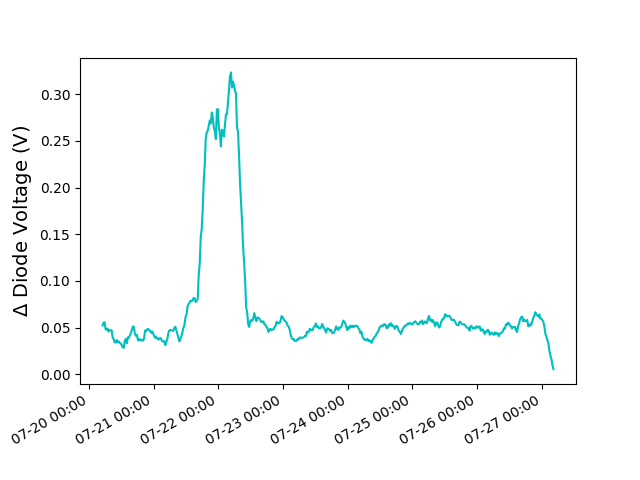
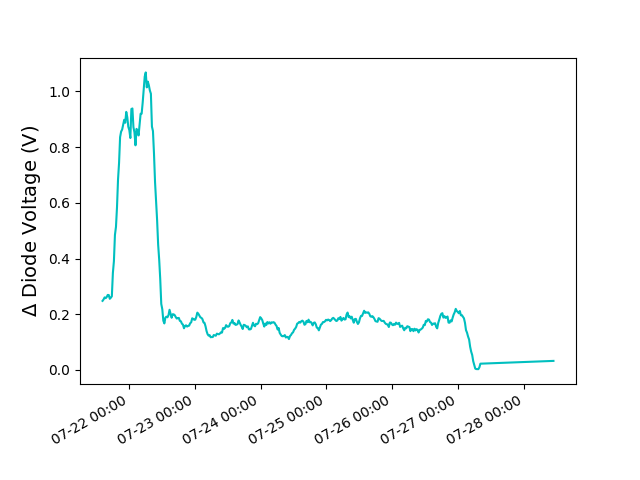
better smoothing, removed unnecessary info/headings from egg page

diff --git a/templates/eggs.html b/templates/eggs.html
@@ -18,13 +18,12 @@
 
     <div class="data_summary">
         <h1>Data Summary</h1>
-        <li>Last Sensor Voltage: {{last_v}} V</li>
         <li>Last time of data collection: {{last_time}} on {{last_date}}</li>
         <li>Last browser refresh: {{last_refresh}}</li>
       </div>
 
     <div class = "graph">
-        <h1>Data Collected <br> over the last 24 hours</h1>
+        <!-- <h1>Data Collected <br> over the last 24 hours</h1> -->
         <img src="{{ url_for('static', filename='graphs/biomass/egg_eye_1_diff.png')}}">
     </div>
 

diff --git a/firebase.py b/firebase.py
@@ -43,7 +43,7 @@ def moving_average(x, n):
     Simple moving average filter
     """
     filter = np.ones(n) / n
-    return np.convolve(x, filter, 'same')
+    return np.convolve(x, filter, 'valid')
 
 def to_datetime(dates, tz_aware=True):
     """
@@ -82,7 +82,7 @@ def check_egg_data():
                 break
 
         time.sleep(60)
-        
+  
 
 
 class bmass_sensor():
@@ -99,7 +99,7 @@ class bmass_sensor():
         self.off = np.array([int(data['data'][i][0]) for i in data['data']])
         self.g = np.array([int(data['data'][i][2]) for i in data['data']])
         self.battv = np.array([float(data['status'][i]['batt_v']) for i in data['status']])
-        self.v = (self.on - self.off)/1024
+        self.v = 3.3 * (self.on - self.off)/1023
         self.id = int(name)
 
     def plot_timeseries(self, mv):
@@ -107,14 +107,13 @@ class bmass_sensor():
         date_fmt = '%m-%d %H:%M'
         # Use DateFormatter to set the data to the correct format.
         date_formatter = mdates.DateFormatter(date_fmt, tz=(pytz.timezone("US/Eastern")))
-        lower = self.d_dt[-1-mv] - timedelta(days=7)
-        upper = self.d_dt[-1-mv]
+        lower = self.d_dt[-1] - timedelta(days=7)
 
-        window = (self.d_dt > lower) & (self.d_dt < upper)
-        v = moving_average(self.v, mv)[window]
+        window = (self.d_dt > lower)
+        v = moving_average(self.v[window], mv)
 
         plt.figure()
-        plt.plot(self.d_dt[window], v, color='c')
+        plt.plot(self.d_dt[window][mv - 1 :], v, color='c')
         plt.ylabel("$\Delta $ Diode Voltage (V)", fontsize=14)
         plt.gcf().autofmt_xdate()
         plt.gca().xaxis.set_major_formatter(date_formatter)
@@ -129,24 +128,27 @@ class egg_sensor():
         self.d_dt = to_datetime(data['data'])
         self.on = np.array([int(data['data'][i]['on']) for i in data['data']])
         self.off = np.array([int(data['data'][i]['off']) for i in data['data']])
-        self.v = (self.on - self.off)/1024
+        self.v = 3.3 * (self.on - self.off)/1023
         self.id = 'egg'
 
-    def plot_timeseries(self, mv):
-        date_fmt = '%m-%d %H:%M'
+    def plot_timeseries(self, mv = 10, x = 1):
+        # date_fmt = '%m-%d %H:%M'
+        date_fmt = '%I:%M%p'
         date_formatter = mdates.DateFormatter(date_fmt, tz=(pytz.timezone("US/Eastern")))
-        lower = self.d_dt[-1-mv] - timedelta(days=1)
-        upper = self.d_dt[-1-mv]
+        lower = self.d_dt[-1] - timedelta(days=7)
+        # upper = self.d_dt[-1-mv]
 
         #potentially learn & use a different smoothing algorithm??
-        window = (self.d_dt > lower) & (self.d_dt < upper)
-        v = moving_average(self.v, mv)[window]
+        window = (self.d_dt > lower)
+        v = moving_average(self.v[window], mv)
 
         plt.figure()
-        plt.plot(self.d_dt[window], v, color='c')
+        plt.plot(self.d_dt[window][mv - 1 :], v, color='c')
+        plt.scatter(self.d_dt[window][mv - 1 :: x], self.v[window][mv - 1 :: x], alpha=0.5)
         plt.ylabel("$\Delta $ Diode Voltage (V)", fontsize=14)
         plt.gcf().autofmt_xdate()
         plt.gca().xaxis.set_major_formatter(date_formatter)
+        plt.tight_layout()
         plt.savefig("static/graphs/biomass/egg_eye_1_diff.png")
 
 class pond():

diff --git a/app.py b/app.py
@@ -6,9 +6,6 @@ import os
 from firebase_admin import db
 from firebase_admin import credentials
 
-import threading
-import time
-
 #define number of bmass sensors and ponds
 bmass_num = 5
 ponds = 70
@@ -120,14 +117,13 @@ def monitor_eggs():
 #85 = ~24 hrs?
 @app.route('/eggs')
 def eggs():
-    egg = firebase.egg_sensor(50)
+    egg = firebase.egg_sensor(1000)
     last_dt = egg.d_dt[-1]
-    last_v = round(egg.v[-1], 2)
     str_date = last_dt.strftime('%A, %B %d')
     str_time = last_dt.strftime('%I:%M %p')
     str_current_time = datetime.now().strftime('%I:%M %p')
-    egg.plot_timeseries(mv=1)
-    return render_template('eggs.html',  last_date=str_date, last_time=str_time, last_v=last_v, last_refresh = str_current_time)
+    egg.plot_timeseries(mv=10)
+    return render_template('eggs.html',  last_date=str_date, last_time=str_time, last_refresh = str_current_time)
 
 if __name__ == "__main__":
     if not deployed:
